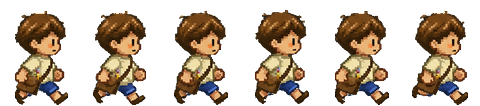
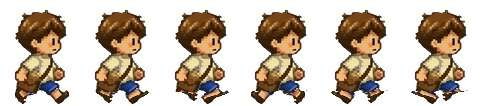
Build the apo a walk cycle, since the sheet has not got one
The delivered walk is six near-identical striding poses. Measured across them, the gap
between the feet stays between 53 and 56 pixels and the leg mass either side of the body
axis is the same in every frame -- so the legs never pass each other, and what plays is
the hair and the satchel jittering while the boy slides along the floor.

A SIDE-ON WALK IS NOT READ FROM ITS CONTACTS. Left-foot-forward and right-foot-forward
look nearly the same from the side; what says "walking" is the PASS between them, the
moment the legs come together and one swings through. That is the frame the sheet has
not got, and its absence is the whole of why the character reads as having one working
leg.

So the cycle is built from the one stride the sheet does have -- contact, closing, pass,
and the same three with the feet exchanged. It is built by MOVING PIXELS, never by
redrawing them: everything above the knee row is the delivered artwork untouched, which
is what keeps the face, the hair, the shirt, the arms and the satchel the artist's rather
than this script's. Below that row the two legs are separate shapes, and each is slid
toward the body by whole pixels.

Three things had to be measured rather than guessed.

THE KNEE ROW, at 92, is where the legs stop being one shape. Above it the thighs, the
shorts and the satchel are a single mass and nothing can be moved without taking the
satchel with it.

THE SWAP ROW, at 91, is where the second half of the cycle reflects the shins to put the
[…]

diff --git a/tools/build_art.py b/tools/build_art.py
@@ -130,6 +130,51 @@ class CharacterSheet(NamedTuple):
     hero: tuple[int, int, int, int]
     ## How tall the character stands in the world, in game pixels, on the idle pose.
     standing: float
+    ## How to build a walk cycle for this character, or None if it does not need one.
+    ## See WalkCycle and build_walk.
+    walk: "WalkCycle | None" = None
+
+
+# --- the walk that was not on the sheet ----------------------------------------------
+#
+# THE DELIVERED WALK IS NOT A CYCLE. Measured across its six frames the gap between the
+# feet stays between 53 and 56 pixels, so the legs never pass each other, and the leg mass
+# either side of the body axis is the same in all six. It is six near-identical striding
+# poses with the hair and the satchel jittering between them. The run sheet is no better
+# for the purpose: it plants the same foot at the same place in all six frames, so playing
+# it slowly -- which is what the game did until now -- is a boy hopping on one leg.
+#
+# A SIDE-ON WALK IS NOT READ FROM ITS CONTACTS. Left-foot-forward and right-foot-forward
+# look nearly identical from the side; what says "walking" is the PASS between them, the
+# moment the legs come together and one swings through. That is the frame neither sheet
+# has, and it is why the character reads as sliding.
+#
+# So the cycle is built here from the one pose the sheet does have. It is built by MOVING
+# PIXELS, never by redrawing them: the head, the face, the shirt, the satchel and the arms
+# are the delivered artwork untouched, and only the legs below the knee are repositioned.
+
+
+class WalkCycle(NamedTuple):
+    """How to make a walk out of a sheet that only has a stride."""
+
+    ## Which delivered frame the whole cycle is built from. The six are near-identical;
+    ## this is the one whose feet are furthest apart and whose boots are cleanest.
+    source: tuple[str, str]
+    ## The row the legs stop being one shape and become two, measured on the cell. Above it
+    ## the thighs, the shorts and the satchel are a single mass and nothing can be moved
+    ## without taking the satchel with it; below it there is a clean gap between the boots.
+    knee: int
+    ## The row below which the two legs are swapped for the second half of the cycle. One
+    ## row above the knee, so the swap takes the whole of both shins -- and low enough that
+    ## the satchel, which hangs to about the knee row, is never mirrored with them.
+    swap: int
+    ## How far each boot travels toward the body on the closing frame and on the pass, and
+    ## how far the swinging foot lifts on each.
+    steps: tuple[tuple[int, int], ...]
+    ## How many rows the shin takes to catch up with its boot. A boot that jumps sideways in
+    ## one row snaps off the leg; spread over the whole shin it smears into a diagonal
+    ## streak. Five rows is where the leg bends instead of doing either.
+    ramp: int
 
 
 ## The apo, at ninety-six pixels.
@@ -143,6 +188,15 @@ APO = CharacterSheet(
     source=SOURCE / "Obra Assets Male.png",
     hero=(40, 115, 305, 470),
     standing=96.0,
+    walk=WalkCycle(
+        source=("walk", "3"),
+        knee=92,
+        swap=91,
+        # Contact, closing, pass. The foot that swings lifts as it comes through, because
+        # two boots sliding together along the floor is a shuffle rather than a step.
+        steps=((0, 0), (6, 1), (11, 3)),
+        ramp=5,
+    ),
 )
 
 ## Lolo, at eighty-four -- deliberately shorter than the apo he floats beside.
@@ -536,6 +590,55 @@ def scaled(image: Image.Image, factor: float) -> Image.Image:
         np.dstack([np.clip(colour, 0, 255), out_alpha]).astype(np.uint8), "RGBA")
 
 
+def close_legs(cell: np.ndarray, gait: WalkCycle, axis: int, draw: int,
+               lift: int) -> np.ndarray:
+    """Bring the boots toward each other under the body, and lift the swinging one.
+
+    Everything above the knee row is left exactly as delivered -- which is what keeps the
+    satchel, the shirt and the arms the artist's rather than this script's. Below it the
+    two legs are separate shapes, so each is slid toward the body axis by whole pixels: a
+    translation, never a scale, because a boot squeezed horizontally stops being a boot
+    long before the legs are close enough to read as passing.
+    """
+    out = cell.copy()
+    out[gait.knee:, :, :] = 0
+    height = cell.shape[0]
+    for y in range(gait.knee, height):
+        travelled = min(1.0, (y - gait.knee) / float(gait.ramp))
+        shift = int(round(draw * travelled))
+        for x in range(cell.shape[1]):
+            if cell[y, x, 3] == 0:
+                continue
+            rear = x < axis
+            nx = x + shift if rear else x - shift
+            ny = y - (lift if rear else 0)
+            if 0 <= nx < cell.shape[1] and gait.knee <= ny < height:
+                out[ny, nx, :] = cell[y, x, :]
+    return out
+
+
+def swap_legs(cell: np.ndarray, gait: WalkCycle) -> np.ndarray:
+    """Put the other foot in front, by reflecting the shins about the body axis.
+
+    The two halves of a walk are the same pose with the legs exchanged, and at this size
+    the legs are near enough symmetrical -- both are a bare shin and a boot -- that
+    reflecting them IS the exchange. It has to happen below the satchel: reflected with
+    them, the satchel swaps shoulders halfway through every step.
+    """
+    out = cell.copy()
+    out[gait.swap:, :, :] = out[gait.swap:, ::-1, :]
+    return out
+
+
+def build_walk(cell: Image.Image, gait: WalkCycle) -> list[Image.Image]:
+    """One delivered stride, made into a cycle. See WalkCycle for why it is not on the sheet."""
+    source = np.asarray(cell.convert("RGBA")).copy()
+    axis = source.shape[1] // 2
+    half = [close_legs(source, gait, axis, draw, lift) for draw, lift in gait.steps]
+    frames = half + [swap_legs(f, gait) for f in half]
+    return [Image.fromarray(f, "RGBA") for f in frames]
+
+
 def build_character(spec: CharacterSheet, write: bool) -> tuple[dict[str, bytes], int, int]:
     sheet = Image.open(spec.source).convert("RGB")
     frames = cut_sheet(spec.source)
@@ -562,14 +665,25 @@ def build_character(spec: CharacterSheet, write: bool) -> tuple[dict[str, bytes]
     cell_w = int(math.ceil(max(left, right))) * 2 + 2
     cell_h = int(math.ceil(top)) + 2
 
+    def compose(key: tuple[str, str]) -> Image.Image:
+        """One frame, on the shared cell, where every strip puts it."""
+        image, anchor, lift = placed[key]
+        cell = Image.new("RGBA", (cell_w, cell_h), (0, 0, 0, 0))
+        cell.alpha_composite(image, (int(round(cell_w / 2.0 - anchor)),
+                                     cell_h - 1 - int(round(image.height + lift))))
+        return cell
+
     written: dict[str, bytes] = {}
     for name, keys in STRIPS:
-        strip = Image.new("RGBA", (cell_w * len(keys), cell_h), (0, 0, 0, 0))
-        for index, key in enumerate(keys):
-            image, anchor, lift = placed[key]
-            x = index * cell_w + int(round(cell_w / 2.0 - anchor))
-            y = cell_h - 1 - int(round(image.height + lift))
-            strip.alpha_composite(image, (x, y))
+        # The walk is BUILT rather than cut, because it is not on the sheet -- see WalkCycle.
+        # It is made on the shared cell like everything else, so switching to it from any
+        # other pose still moves nothing.
+        cells = (build_walk(compose(spec.walk.source), spec.walk)
+                 if name == "walk" and spec.walk is not None
+                 else [compose(key) for key in keys])
+        strip = Image.new("RGBA", (cell_w * len(cells), cell_h), (0, 0, 0, 0))
+        for index, cell in enumerate(cells):
+            strip.alpha_composite(cell, (index * cell_w, 0))
         path = CHARACTER_OUT / spec.name / f"{spec.name}_{name}.png"
         written[str(path.relative_to(ROOT))] = _emit(strip, path, write)
     return written, cell_w, cell_h
